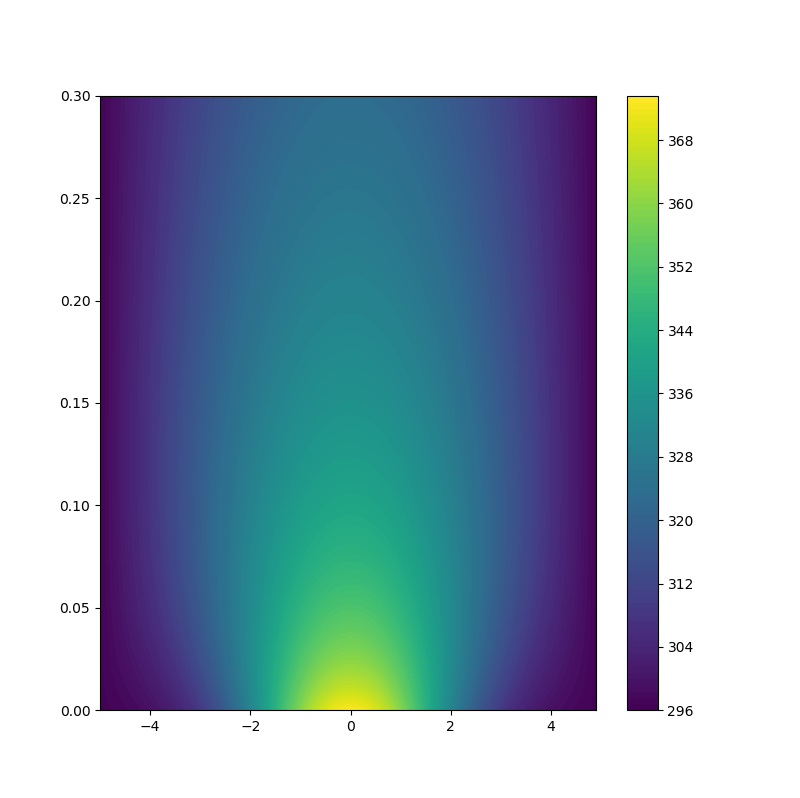
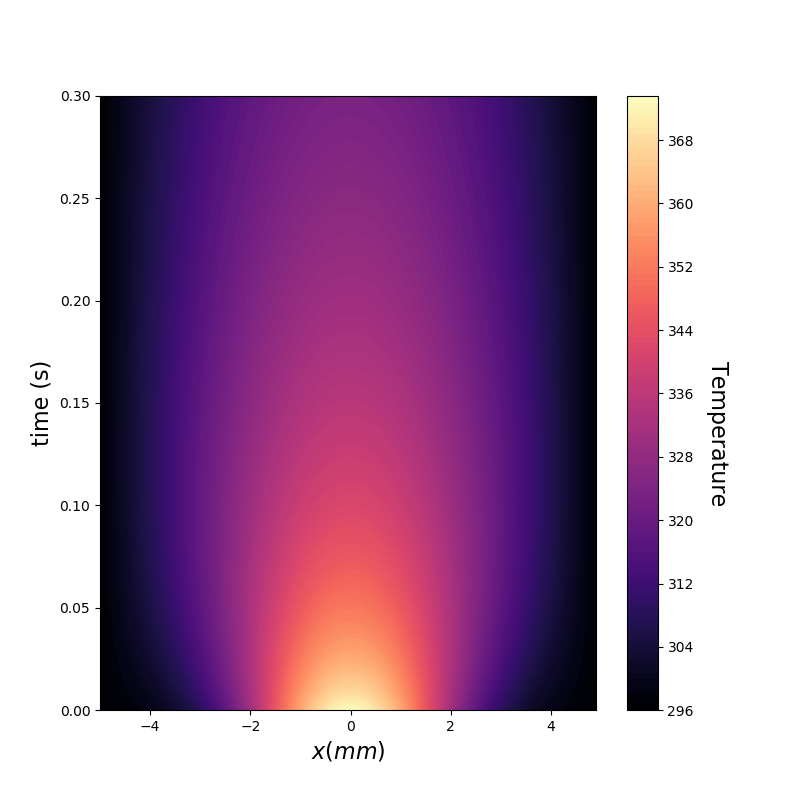
fig edited

diff --git a/heatqe.py b/heatqe.py
@@ -88,6 +88,10 @@ if __name__ == '__main__':
     u = solve(dudt, u0, t, D, k)
 
     plt.figure(figsize=(8, 8))
-    plt.contourf(xscale, t, u, 100)
-    plt.colorbar()
+    plt.contourf(xscale, t, u, 100, cmap="magma")
+    plt.xlabel(r"$x(mm)$", fontsize=16)
+    plt.ylabel(r"time (s)", fontsize=16)
+    cbar = plt.colorbar()
+    cbar.set_label("Temperature", fontsize=16, rotation=270,
+                    labelpad=25, y=0.45)
     plt.show()
